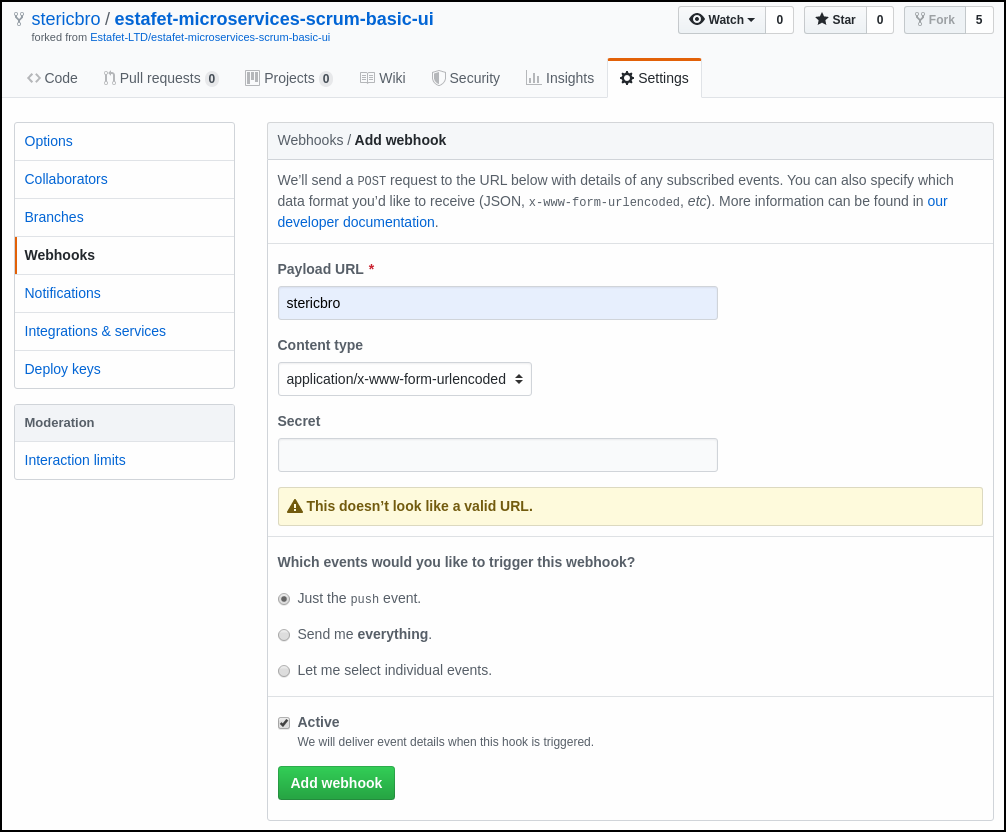
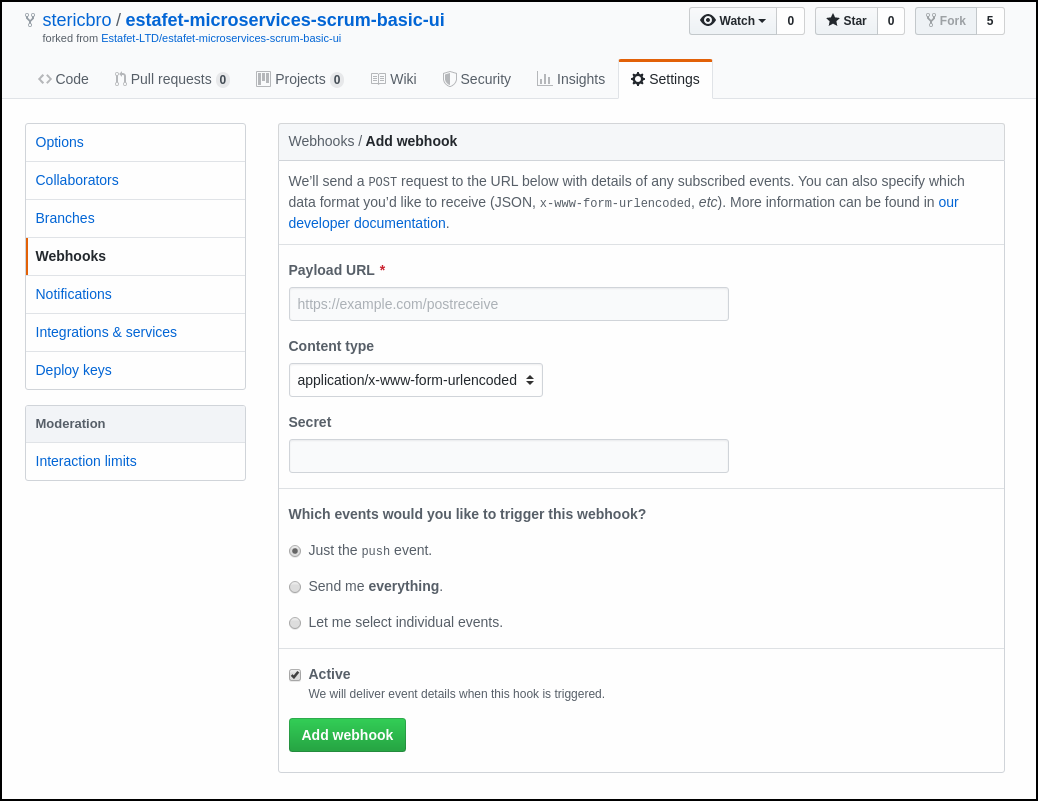
Next stage.

diff --git a/WEBHOOKS.md b/WEBHOOKS.md
@@ -5,7 +5,7 @@ This document describes how to set up GitHub Webhooks so that Jenkins automatica
 
 * [Prerequisites](https://github.com/stericbro/estafet-microservices-scrum/blob/master/WEBHOOKS.md#Prerequisites)
 * [Configuring Jenkins](https://github.com/stericbro/estafet-microservices-scrum/blob/master/WEBHOOKS.md#configuring-jenkins)
-* [Configuring GitHub](https://github.com/stericbro/estafet-microservices-scrum/blob/master/WEBHOOKS.md#Iconfiguring github)
+* [Configuring GitHub](https://github.com/stericbro/estafet-microservices-scrum/blob/master/WEBHOOKS.md#configuring github)
 * [Configuration](https://github.com/stericbro/estafet-microservices-scrum/blob/master/WEBHOOKS.md#Configuration)
 * [Running Minishift](https://github.com/stericbro/estafet-microservices-scrum/blob/master/WEBHOOKS.md#running-minishift)
 
@@ -63,7 +63,7 @@ Check `Specify another hook URL for GitHib configuration`:
 
 ![GitHub Override Hook URL](https://github.com/stericbro/estafet-microservices-scrum/blob/master/md_images/webhooks/jenkins_github_override_hook_url.png)
 
-Ignore the error message `Failed to test a connection to ...`.  Copy the highlighted  Webhook URL and save it.
+<a name="save-hook-url"></a>Ignore the error message `Failed to test a connection to ...`.  Copy the highlighted  Webhook URL and save it.
 
 1. Uncheck `Specify another hook URL for GitHib configuration`
 1. Click on `Save`.
@@ -86,7 +86,7 @@ Choose 'Add webhook':
 
 ![GitHub repository settings page](https://github.com/stericbro/estafet-microservices-scrum/blob/master/md_images/webhooks/github_repo_add_webhook_page.png)
 
- 
+Copy the Jenkins hook URL from [save hook url](https://github.com/stericbro/estafet-microservices-scrum/blob/master/WEBHOOKS.md#save-hook-url)
 
 
 
